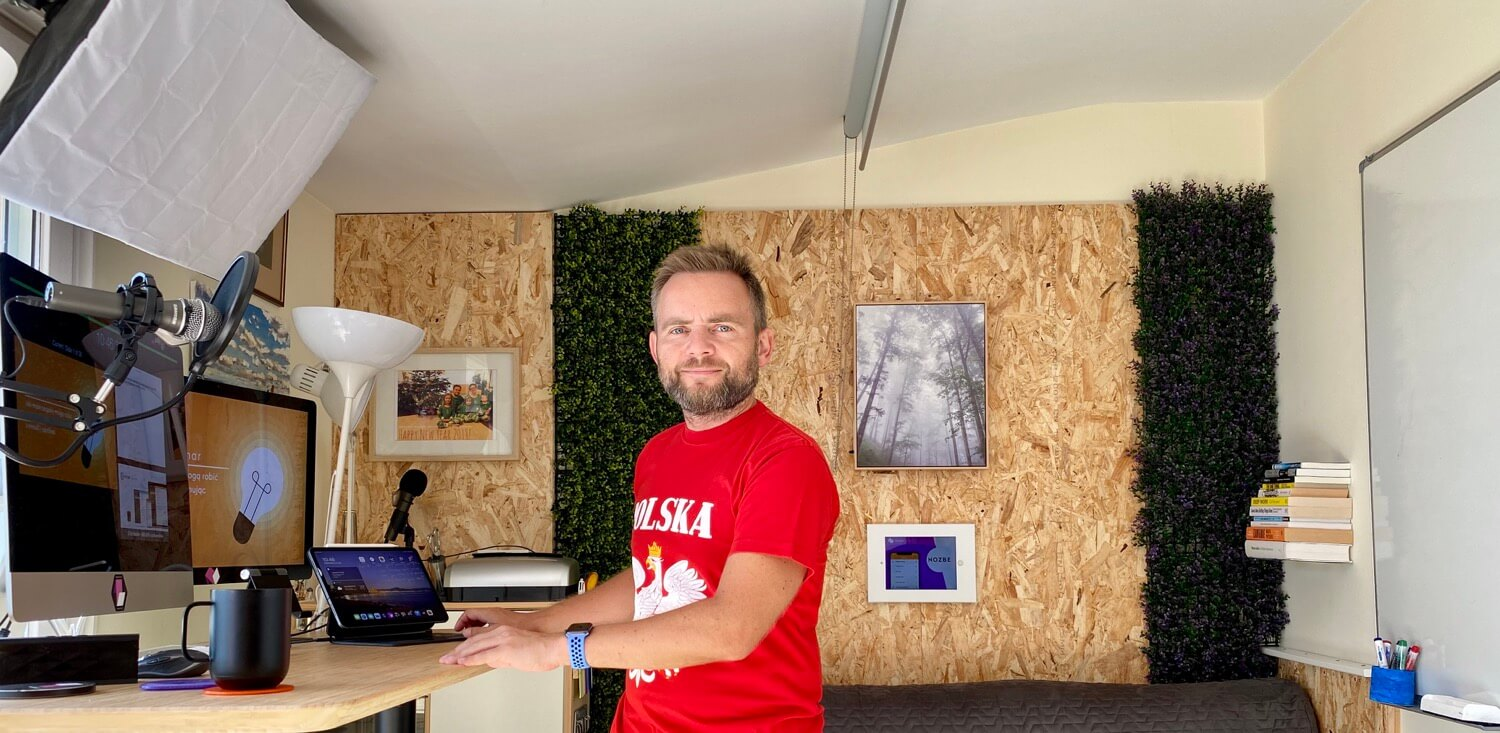
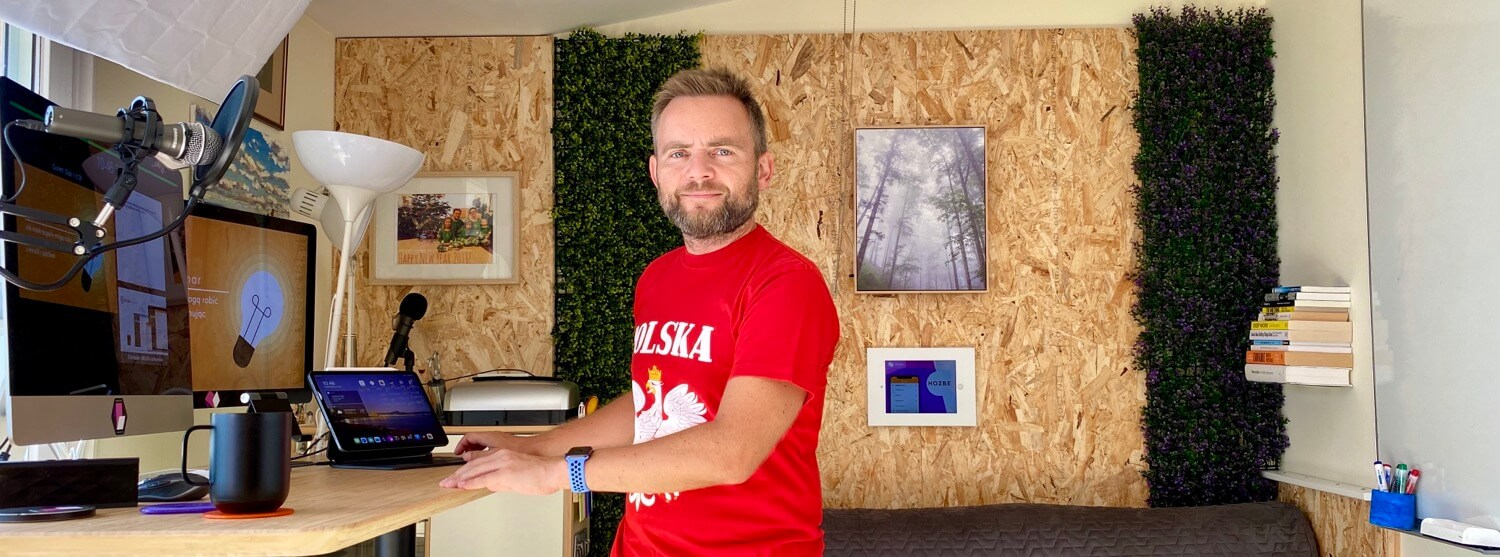
ES ready and img improvements

diff --git a/es/index.md b/es/index.md
@@ -1,18 +1,35 @@
-# Blog de Michael Sliwinski
+---
+cover: michael.team.es.jpg
+---
 
-[Todas entradas de mi blog](/es/todo) y [página sobre mí](/es/sobremi)
+# Michael Sliwinski
 
-## Busca algo interesante
+## ¡Bienvenid@s!
+
+¿Te interesa productividad personal y empresarial? Pues, estoy aquí para ayudarte. Soy fundador de [Nozbe y Nozbe Teams](https://nozbe.com/){:target='_blank'} - aplicaciones para profesionales y equipos que ayudan a organizarlo todo con eficacia. Lo llevo haciendo ya más que 13 años. También soy el escritor de libros, como ([#iPadOnly](https://iPadOnly.com){:target='_blank'} y [#NoOffice - Sin Oficina](https://NoOffice.org/es/){:target='_blank'}).
+
+## Mi blog
+
+Aquí tienes [todas entradas de mi blog](/es/todo), también organizadas por [tags/categorías](/es/tag/).
 
 {% include search.html %}
 
 <br>
 
+[¿Sabes inglés? Lee mi blog en inglés, donde escribo mucho más a menudo](/archive)
+
+## Biografía
+
+Mi biografía corta para usar en prensa:
+
+> Michael Sliwinski es un experto en productividad personal y empresarial. Es el fundador de [Nozbe y Nozbe Teams](https://nozbe.com/){:target='_blank'}, aplicaciones que ayudan a los profesionales y equipos de trabajo, organizarse con mayor eficacia, disponibles en todas las plataformas (web con apps para Mac, Windows, Android, iPad y iPhone + Apple Watch). Michael está trabajando de la forma remota (#NoOffice) y con dispositivos móviles (#iPadOnly). Michael está casado con tres hijas.
+
+## Fotos
+
+Si necesitas fotos de Michael, "guarda como" cualquiera de estas fotos:
+
+![Michael Black](/img/michael.black.jpg){: style="height: 200px;"} ![Michael Team](/img/michael.team.jpg){: style="height: 200px;"} ![Michael London](/img/michael.london.jpg){: style="height: 200px;"}
+
 ## Mis últimas entradas
 
-{% include posts.html posts=site.categories.es limit=10 %}
-
-## Leer más
-
-* [**Todo** - todas mis entradas en español](/es/todo/)
-* [¿Sabes inglés? Lee mi blog en inglés, donde escribo desde ya 2008](/archive)
+{% include posts.html posts=site.categories.es limit=5 more=1 %}

diff --git a/en/about.md b/en/about.md
@@ -20,7 +20,7 @@ I'm all about "team productivity" and what it means for me is helping teams work
 
 Here's my short bio:
 
-> Michael Sliwinski is a team productivity enthusiast who’s passionate about working remotely (#NoOffice) and in a mobile way (#iPadOnly). He's the founder of [Nozbe and Nozbe Teams](https://nozbe.com/){:target='_blank'}, apps that help people and teams get more done in a better way on any platform (web-based with native apps for the Mac, Windows, Android, iPad and the iPhone + Apple Watch). Privately Michael is a husband and a father of 3 girls.
+> Michael Sliwinski is a team productivity enthusiast. He's the founder of [Nozbe and Nozbe Teams](https://nozbe.com/){:target='_blank'}, apps that help people and teams get more done in a better way on any platform (web-based with native apps for the Mac, Windows, Android, iPad and the iPhone + Apple Watch). Michael is passionate about working remotely (#NoOffice) and in a mobile way (#iPadOnly). Privately he is a husband and a father of 3 girls.
 
 [Here's my full story](https://michael.team/about/#my-story)
 

diff --git a/es/todo.md b/es/todo.md
@@ -3,4 +3,4 @@ title: "Todas las entradas de blog de Michael Sliwinski en español"
 layout: archive
 ---
 
-Escribo mucho más [en íngles](/archive/) o [polaco](/pl/archiwum/).
+Aquí tienes todas mis entradas escritas en castellano. Escribo mucho más [en íngles](/archive/) o [polaco](/pl/archiwum/).
